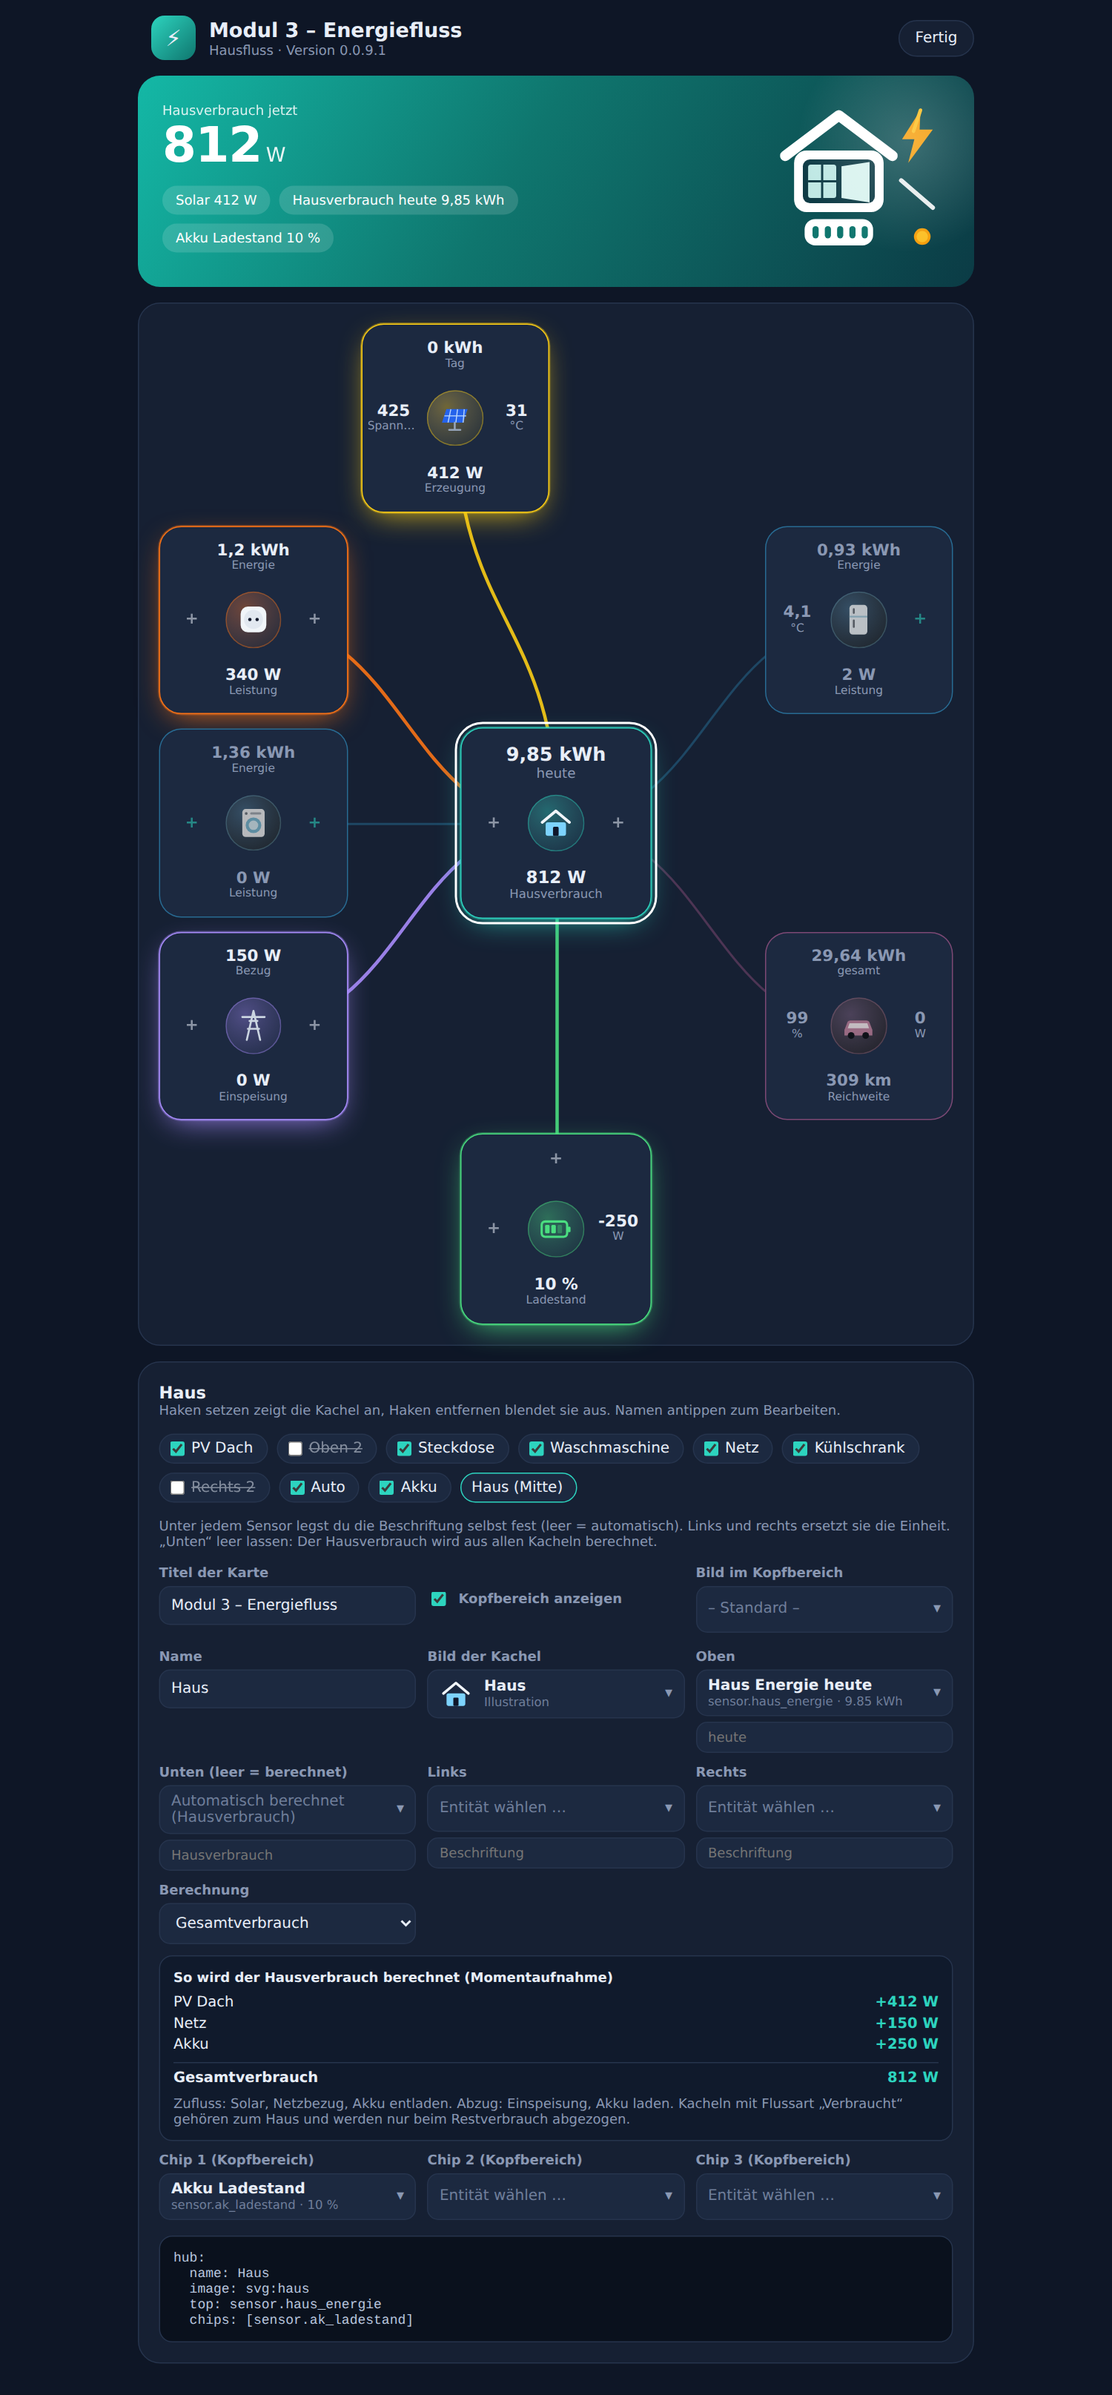
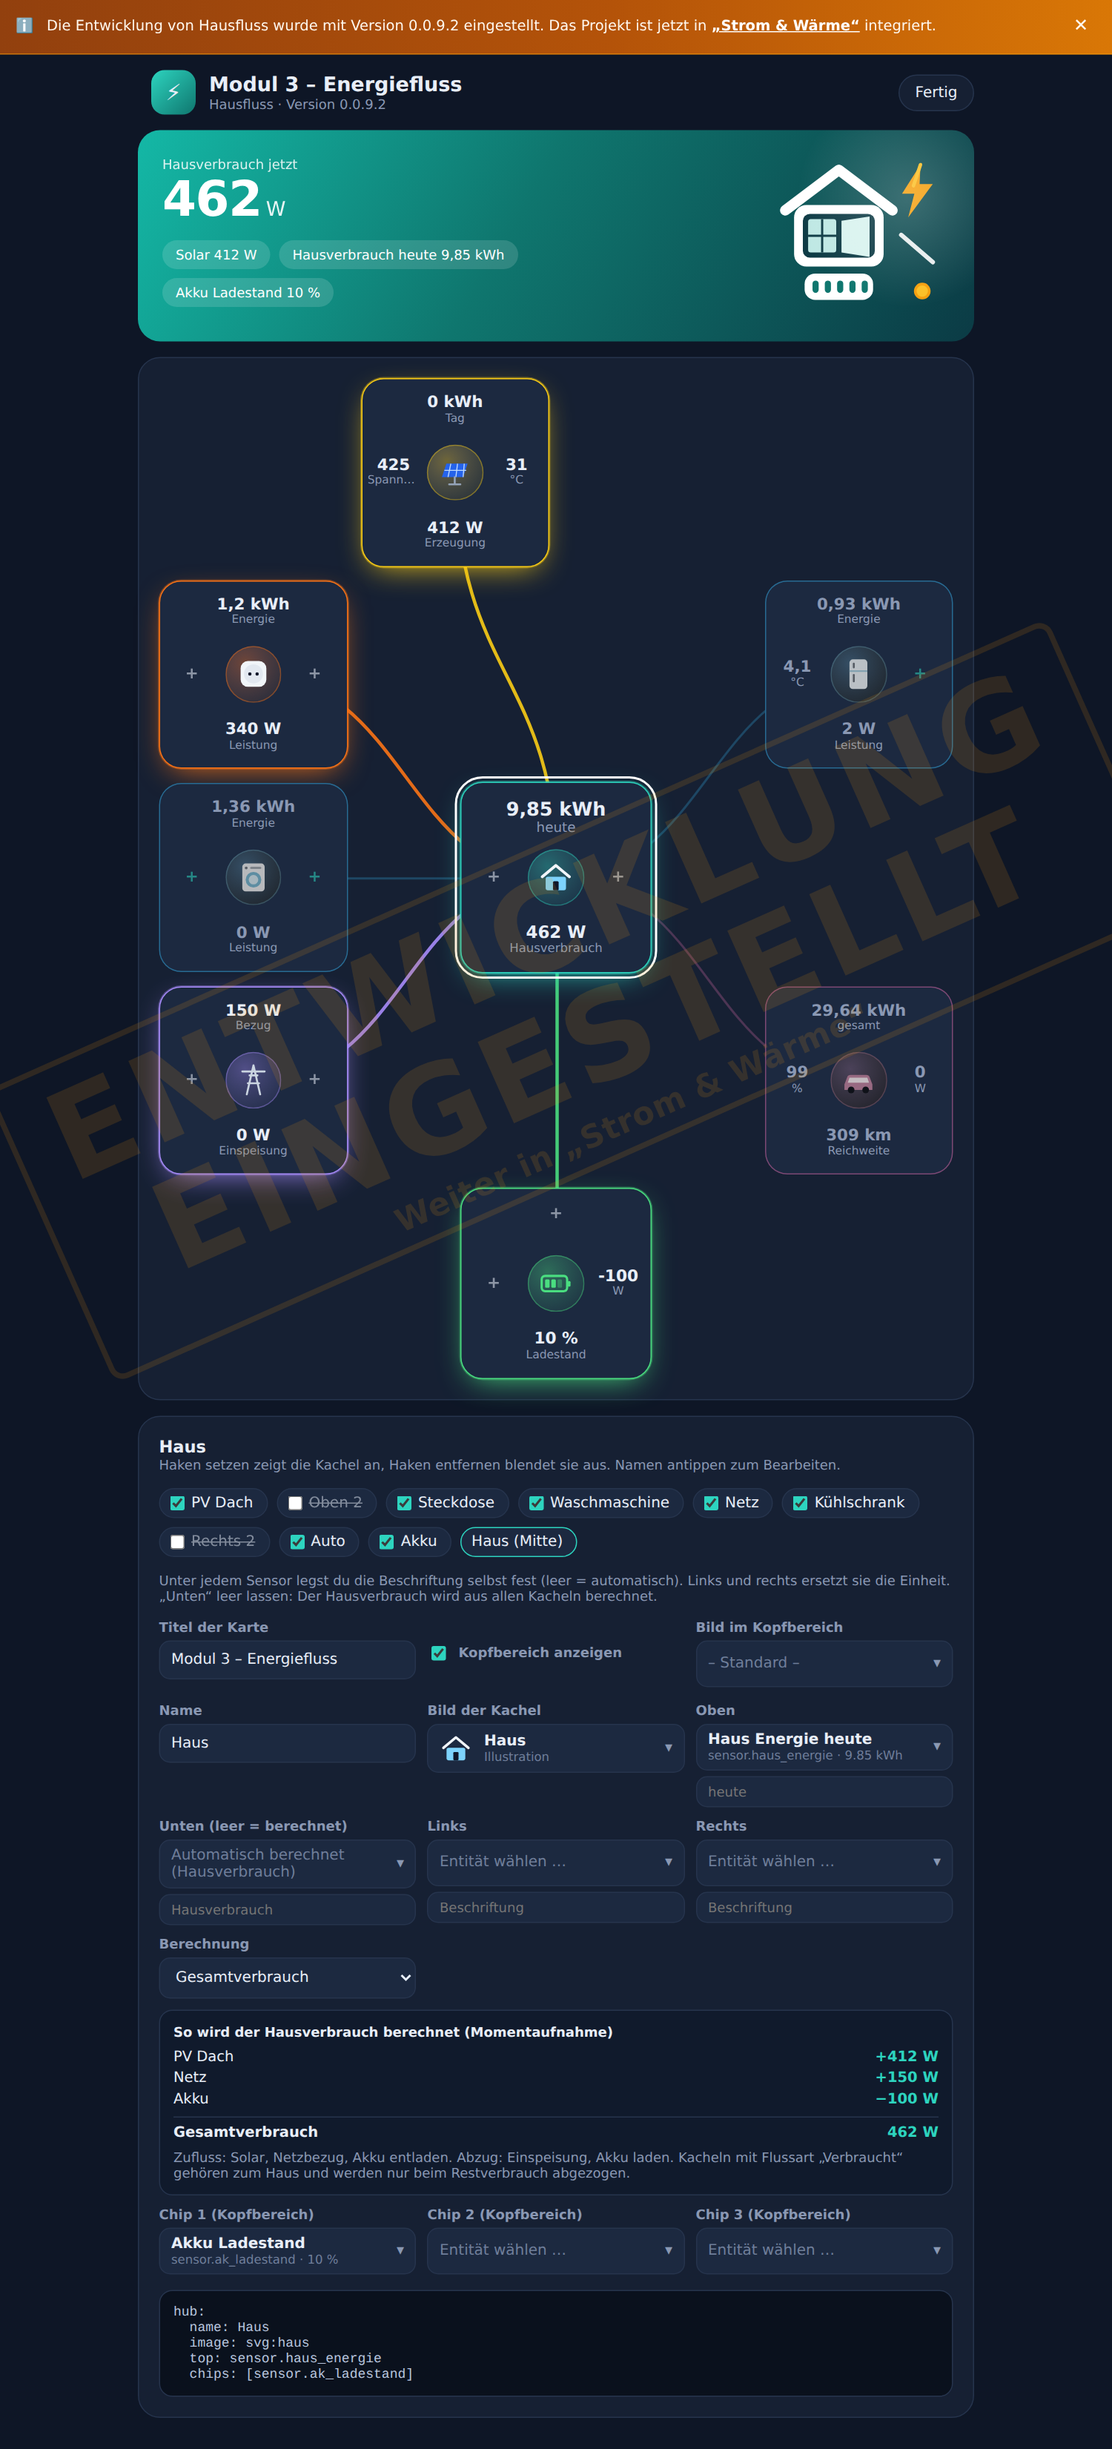
Add files via upload

diff --git a/custom_components/hausfluss/frontend/hausfluss-card.js b/custom_components/hausfluss/frontend/hausfluss-card.js
@@ -1,5 +1,5 @@
-/* Hausfluss – Modul 3 Energiefluss · Version 0.0.9.1 */
-const VERSION = '0.0.9.1';
+/* Hausfluss – Modul 3 Energiefluss · Version 0.0.9.2 */
+const VERSION = '0.0.9.2';
 const POS = {
   top_1: [2, 1, 'in', '#facc15'], top_2: [3, 1, 'in', '#fbbf24'],
   left_1: [1, 2, 'out', '#f97316'], left_2: [1, 3, 'out', '#38bdf8'], left_3: [1, 4, 'out', '#a78bfa'],
@@ -242,6 +242,7 @@ input:focus-visible,select:focus-visible,button:focus-visible{outline:2px solid 
 .calc{background:#101a2c;border:1px solid #26344d;border-radius:12px;padding:12px;display:grid;gap:8px}.calc b{font-size:12px}
 .calc ul{list-style:none;margin:0;padding:0;display:grid;gap:4px}.calc li,.calc .sum{display:flex;justify-content:space-between;gap:10px;font-size:13px}
 .calc em{font-style:normal;font-weight:600;color:#2dd4bf;white-space:nowrap}.calc .sum{border-top:1px solid #26344d;padding-top:6px;font-weight:700}.calc .warn{color:#f59e0b}
+.panel .live{color:#2dd4bf}
 .pkb{min-width:0;max-width:100%;overflow:hidden;box-sizing:border-box;display:flex;align-items:center;gap:10px;width:100%;min-height:42px;text-align:left;background:#1c2940;border:1px solid #26344d;color:#e8eef8;border-radius:10px;padding:6px 10px;font:500 13px inherit;font-family:inherit;cursor:pointer}
 .pkb::after{content:"▾";margin-left:auto;padding-left:6px;flex:none;color:#8a98b3}.pkb:hover{border-color:#2dd4bf}
 .ph{color:#6f7e9a}
@@ -282,6 +283,12 @@ class HausflussEditor extends HTMLElement {
   _picked(p) { this.dispatchEvent(new CustomEvent('hausfluss-selected', { detail: { position: p }, bubbles: true, composed: true })); }
   _closeAll() { this.shadowRoot.querySelectorAll('.pop').forEach((p) => (p.hidden = true)); }
 
+  _live(n) {
+    const h = this._h, id = h && pidOf(n, h);
+    if (!id || !h.states[id]) return '<p style="grid-column:1/-1">Wähle einen Sensor, dann siehst du hier, in welche Richtung die Energie gerade fließt.</p>';
+    const st = h.states[id], w = nodeW({ ...n, flow: 'both' }, h), a = Math.round(Math.abs(w)).toLocaleString('de') + ' W';
+    return `<p class="live" style="grid-column:1/-1">Sensor zeigt ${esc(st.state + ' ' + (st.attributes.unit_of_measurement || ''))} → ${Math.abs(w) < 1 ? 'kein Fluss' : w > 0 ? a + ' fließen zur Kachel (z. B. Akku lädt, Einspeisung)' : a + ' fließen ins Haus (z. B. Akku entlädt, Bezug)'}</p>`;
+  }
   _calcUi(n) {
     if (n.bottom || !this._h) return '';
     const nodes = (this._c.nodes || []).filter((x) => POS[x.position] && x.enabled !== false), c = calcHouse(nodes, this._h), rest = n.calc === 'rest';
@@ -289,7 +296,9 @@ class HausflussEditor extends HTMLElement {
     const rows = c.parts.map((x) => `<li><span>${nm(x.n)}</span><em>${x.v >= 0 ? '+' : '−'}${w(x.v)}</em></li>`).join('') || '<li><span>keine Quelle gefunden</span><em>–</em></li>';
     const cons = rest ? c.cons.map((x) => `<li><span>${nm(x.n)} (Verbraucher)</span><em>−${w(x.v)}</em></li>`).join('') : '';
     const warn = !c.parts.length ? 'Keine Quelle gefunden. Lege Kacheln für Solar, Netz und Akku an und wähle bei Netz und Akku die Flussart „Beides“.' : !c.bidir ? 'Keine Kachel mit Flussart „Beides“ (Netz, Akku) gefunden. Ohne Netzbezug, Einspeisung und Akku kann der Wert falsch sein.' : '';
-    return `<label>Berechnung<select data-calc><option value="total"${rest ? '' : ' selected'}>Gesamtverbrauch</option><option value="rest"${rest ? ' selected' : ''}>Restverbrauch (ohne Verbraucher-Kacheln)</option></select></label><div class="calc" style="grid-column:1/-1"><b>So wird der Hausverbrauch berechnet (Momentaufnahme)</b><ul>${rows}${cons}</ul><div class="sum"><span>${rest ? 'Restverbrauch' : 'Gesamtverbrauch'}</span><em>${w(rest ? c.rest : c.total)}</em></div>${warn ? `<p class="warn">${warn}</p>` : ''}<p>Zufluss: Solar, Netzbezug, Akku entladen. Abzug: Einspeisung, Akku laden. Kacheln mit Flussart „Verbraucht“ gehören zum Haus und werden nur beim Restverbrauch abgezogen.</p></div>`;
+    const sus = nodes.filter((x) => flowOf(x) === 'consume' && /akku|batter|speicher|netz|grid/i.test(x.name || '')).map((x) => `„${esc(x.name)}“`);
+    const susW = sus.length ? `${sus.join(', ')} hat die Flussart „Verbraucht“. Für Akku und Netz bitte „Beides“ wählen, sonst fehlt der Wert in der Berechnung.` : '';
+    return `<label>Berechnung<select data-calc><option value="total"${rest ? '' : ' selected'}>Gesamtverbrauch</option><option value="rest"${rest ? ' selected' : ''}>Restverbrauch (ohne Verbraucher-Kacheln)</option></select></label><div class="calc" style="grid-column:1/-1"><b>So wird der Hausverbrauch berechnet (Momentaufnahme)</b><ul>${rows}${cons}</ul><div class="sum"><span>${rest ? 'Restverbrauch' : 'Gesamtverbrauch'}</span><em>${w(rest ? c.rest : c.total)}</em></div>${[warn, susW].filter(Boolean).map((t) => `<p class="warn">${t}</p>`).join('')}<p>Zufluss: Solar, Netzbezug, Akku entladen. Abzug: Einspeisung, Akku laden. Kacheln mit Flussart „Verbraucht“ gehören zum Haus und werden nur beim Restverbrauch abgezogen.</p></div>`;
   }
   _auto(n, side, hub) {
     const id = n[side]; if (!id) return hub && side === 'bottom' ? (n.calc === 'rest' ? 'Restverbrauch' : 'Hausverbrauch') : '';
@@ -365,12 +374,12 @@ class HausflussEditor extends HTMLElement {
     const hints = {
       consume: 'Die Punkte laufen vom Haus zur Kachel, sobald der Sensor Leistung zeigt.',
       supply: 'Die Punkte laufen von der Kachel ins Haus, sobald der Sensor Leistung zeigt.',
-      both: 'Ein Sensor für beide Richtungen, z. B. Netz oder Akku: positiver Wert = zur Kachel, negativer Wert = ins Haus. Liefert dein Sensor es umgekehrt, setze „Vorzeichen umkehren“.',
+      both: 'Ein Sensor für beide Richtungen, z. B. Netz oder Akku. Wähle, was ein positiver Wert bedeutet. Beispiel Akku mit Minus = laden und Plus = entladen: „Plus = Lieferung / Entladen“.',
       split: 'Zwei Sensoren, z. B. Netz (Einspeisung / Bezug) oder Akku (Laden / Entladen). Der größere Wert bestimmt die Richtung.',
     };
     let f;
     if (fl === 'split') f = this._fld('entity', 'power_to_node', 'Sensor zur Kachel (z. B. Einspeisung, Laden)', n.power_to_node) + this._fld('entity', 'power_to_house', 'Sensor ins Haus (z. B. Bezug, Entladen)', n.power_to_house);
-    else if (fl === 'both') f = this._fld('entity', 'power', 'Sensor (positiv = zur Kachel)', n.power) + `<label class="row"><input type="checkbox" data-inv${n.invert ? ' checked' : ''}>Vorzeichen umkehren (positiv = ins Haus)</label>`;
+    else if (fl === 'both') f = this._fld('entity', 'power', 'Sensor', n.power) + `<label>Vorzeichen des Sensors<select data-sign><option value=""${n.invert ? '' : ' selected'}>Plus = Verbrauch / Laden (zur Kachel)</option><option value="1"${n.invert ? ' selected' : ''}>Plus = Lieferung / Entladen (ins Haus)</option></select></label>${this._live(n)}`;
     else f = this._fld('entity', 'power', 'Fluss-Leistung (optional, sonst „Unten“)', n.power);
     return `<label>Flussart<select data-fl>${o('consume', 'Verbraucht (Energie fließt zur Kachel)')}${o('supply', 'Liefert (Energie fließt ins Haus)')}${o('both', 'Beides – ein Sensor mit Vorzeichen')}${o('split', 'Beides – zwei Sensoren')}</select></label>${f}<p style="grid-column:1/-1">${hints[fl]}</p>`;
   }
@@ -410,15 +419,23 @@ ${hub ? this._calcUi(n) + [0, 1, 2].map((i) => this._fld('entity', 'chip' + i, '
     if (cs) cs.onchange = () => { this._set('hub', { calc: cs.value === 'rest' ? 'rest' : '' }); this._draw(); };
     const fs = r.querySelector('[data-fl]');
     if (fs) fs.onchange = () => { const v = fs.value; this._set(p, { flow: v, direction: '', ...(v !== 'split' ? { power_to_node: '', power_to_house: '' } : {}), ...(v !== 'both' ? { invert: '' } : {}) }); this._draw(); };
-    const iv = r.querySelector('[data-inv]');
-    if (iv) iv.onchange = () => { this._set(p, { invert: iv.checked ? true : '' }); this._yaml(); };
+    const sg = r.querySelector('[data-sign]');
+    if (sg) sg.onchange = () => { this._set(p, { invert: sg.value === '1' ? true : '' }); this._draw(); };
     r.querySelectorAll('[data-c]').forEach((b) => (b.onclick = () => { this._set(p, { color: b.dataset.c }); this._draw(); }));
   }
 }
 
+const NOTICE_URL = 'https://github.com/Maddog3010/ha-fenster-heizung', NOTICE_KEY = 'hausfluss_notice_strom_waerme';
 const DEFAULT_CFG = { title: 'Modul 3 – Energiefluss', hub: { name: 'Haus' }, nodes: [] };
 const PCSS = `
 :host{display:block;min-height:100%;background:#0e1626;color:#e8eef8;font-family:var(--paper-font-body1_-_font-family,system-ui,sans-serif)}
+.notice{display:flex;align-items:center;gap:12px;padding:10px 14px;background:linear-gradient(90deg,#92400e,#b45309 55%,#d97706);color:#fff7ed;font-size:13px;line-height:1.4;border-bottom:1px solid #f59e0b88;position:sticky;top:0;z-index:5}
+.notice[hidden]{display:none}.notice a{color:#fff;font-weight:700;text-decoration:underline}.nt{flex:1;min-width:0}
+.nx{background:none;border:0;color:inherit;font-size:16px;line-height:1;cursor:pointer;padding:6px 8px;border-radius:8px}.nx:hover{background:#ffffff22}
+.nx:focus-visible,.notice a:focus-visible{outline:2px solid #fff;outline-offset:2px}
+.wm{position:fixed;inset:0;display:grid;place-items:center;pointer-events:none;z-index:4;overflow:hidden;user-select:none}
+.wm span{transform:rotate(-24deg);text-align:center;font-weight:800;font-size:clamp(30px,min(11vw,11vh),110px);line-height:1.02;letter-spacing:.05em;color:rgba(245,158,11,.14);border:.05em solid rgba(245,158,11,.14);border-radius:.12em;padding:.08em .3em}
+.wm small{display:block;margin-top:.25em;font-size:.26em;letter-spacing:.02em;font-weight:700}
 .bar{display:flex;align-items:center;gap:12px;padding:14px;max-width:780px;margin:0 auto;box-sizing:border-box}
 ha-menu-button{color:#e8eef8}
 .logo{width:40px;height:40px;border-radius:12px;background:linear-gradient(135deg,#2dd4bf,#0f766e);display:grid;place-items:center;font-size:20px;flex:none}
@@ -449,7 +466,11 @@ class HausflussPanel extends HTMLElement {
 
   _draw() {
     const admin = !!this._h.user?.is_admin, r = this.shadowRoot;
-    r.innerHTML = `<style>${PCSS}</style><div class="bar"><ha-menu-button></ha-menu-button><div class="logo">⚡</div><div class="tt"><h1></h1><p>Hausfluss · Version ${VERSION}</p></div><span class="msg" id="m"></span>${admin ? '<button class="pill" id="b">Anpassen</button>' : ''}</div><div class="main"><div class="hint" id="hint" hidden>Noch keine Kachel angelegt. Tippe oben auf „Anpassen“, setze bei einer Kachel den Haken und wähle ihre Entitäten.</div><div id="cw"></div><div id="ed" hidden></div></div>`;
+    r.innerHTML = `<style>${PCSS}</style><div class="notice" id="nt" role="status"><span aria-hidden="true">ℹ</span><span class="nt">Die Entwicklung von Hausfluss wurde mit Version 0.0.9.2 eingestellt. Das Projekt ist jetzt in <a href="${NOTICE_URL}" target="_blank" rel="noopener noreferrer">„Strom &amp; Wärme“</a> integriert.</span><button class="nx" id="ntx" aria-label="Hinweis schließen">✕</button></div><div class="wm" aria-hidden="true"><span>ENTWICKLUNG<br>EINGESTELLT<small>Weiter in „Strom &amp; Wärme“</small></span></div><div class="bar"><ha-menu-button></ha-menu-button><div class="logo">⚡</div><div class="tt"><h1></h1><p>Hausfluss · Version ${VERSION}</p></div><span class="msg" id="m"></span>${admin ? '<button class="pill" id="b">Anpassen</button>' : ''}</div><div class="main"><div class="hint" id="hint" hidden>Noch keine Kachel angelegt. Tippe oben auf „Anpassen“, setze bei einer Kachel den Haken und wähle ihre Entitäten.</div><div id="cw"></div><div id="ed" hidden></div></div>`;
+    const nt = r.getElementById('nt'); let gone = false;
+    try { gone = localStorage.getItem(NOTICE_KEY) === '1'; } catch (e) { /* ohne Speicher: Hinweis bleibt sichtbar */ }
+    nt.hidden = gone;
+    r.getElementById('ntx').onclick = () => { nt.hidden = true; try { localStorage.setItem(NOTICE_KEY, '1'); } catch (e) { /* egal */ } };
     this._menu = r.querySelector('ha-menu-button'); this._menu.hass = this._h; this._menu.narrow = this._narrow;
     this._card = document.createElement('hausfluss-card'); r.getElementById('cw').appendChild(this._card);
     this._apply();

diff --git a/custom_components/hausfluss/const.py b/custom_components/hausfluss/const.py
@@ -1,6 +1,6 @@
 """Konstanten für Hausfluss."""
 DOMAIN = "hausfluss"
-VERSION = "0.0.9.1"
+VERSION = "0.0.9.2"
 URL_BASE = "/hausfluss_static"
 CARD_FILE = "hausfluss-card.js"
 JS_URL = f"{URL_BASE}/{CARD_FILE}?v={VERSION}"

diff --git a/README.md b/README.md
@@ -1,4 +1,6 @@
-# Energiefluss (v0.0.9.1)
+# Hausfluss – Modul 3 Energiefluss (v0.0.9.2)
+
+> **Entwicklung eingestellt.** Nachfolger: [Strom & Wärme](https://github.com/Maddog3010/ha-fenster-heizung). Details siehe unten.
 
 Lovelace-Karte für Home Assistant: ein Haus-Knoten in der Mitte, bis zu 9 Kacheln drumherum.
 Jede Kachel hat ein Bild in der Mitte und je eine Entität oben, unten, links und rechts.
@@ -24,7 +26,7 @@ Mit der Integration entsteht automatisch eine Seite **Energiefluss** links in de
 - **Flussart:** Pro Kachel legst du fest, wie Energie fließt. Danach zeigt der Editor genau die passenden Sensorfelder:
   - *Verbraucht*: Energie fließt vom Haus zur Kachel (ein Sensor, optional).
   - *Liefert*: Energie fließt von der Kachel ins Haus, z. B. Solar (ein Sensor, optional).
-  - *Beides – ein Sensor mit Vorzeichen*: für Netz oder Akku. Positiv heißt „zur Kachel“, negativ „ins Haus“. Liefert dein Sensor es umgekehrt, setzt du „Vorzeichen umkehren“.
+  - *Beides – ein Sensor mit Vorzeichen*: für Netz oder Akku. Unter „Vorzeichen des Sensors“ wählst du, was ein positiver Wert bedeutet. Beispiel Akku mit Minus = laden und Plus = entladen: „Plus = Lieferung / Entladen“. Eine Live-Anzeige zeigt sofort, in welche Richtung die Energie gerade fließt.
   - *Beides – zwei Sensoren*: z. B. Netzbezug und Einspeisung oder Laden und Entladen. Der größere Wert bestimmt die Richtung.
 - **Haus-Kachel:** Lässt du bei „Haus (Mitte)“ das Feld „Unten“ leer, wird der Hausverbrauch automatisch berechnet. Dafür braucht es keine zusätzlichen Entitäten bei der Haus-Kachel, die Werte kommen aus den anderen Kacheln:
   - **Zufluss:** Kacheln mit Flussart „Liefert“ (Solar) sowie Netzbezug und Akku entladen von Kacheln mit „Beides“.
@@ -43,6 +45,8 @@ Mit der Integration entsteht automatisch eine Seite **Energiefluss** links in de
 
 ![Flussart mit zwei Sensoren](images/flussart.png)
 
+![Akku-Sensor mit Vorzeichen (Minus = laden, Plus = entladen)](images/akku.png)
+
 ![Haus-Kachel mit berechnetem Hausverbrauch](images/haus.png)
 
 | Entität suchen | Bild suchen |
@@ -52,6 +56,9 @@ Mit der Integration entsteht automatisch eine Seite **Energiefluss** links in de
 ## Mobil
 Ist die Karte schmaler als 600 Pixel, wechselt sie automatisch in ein Handy-Layout: Das Haus steht oben, die Kacheln darunter in zwei Spalten, verbunden über eine Sammellinie. So bleiben alle Werte gut lesbar.
 
+## Entwicklung eingestellt
+Die Entwicklung von Hausfluss wurde mit Version 0.0.9.2 eingestellt. Das Projekt ist jetzt in [Strom & Wärme](https://github.com/Maddog3010/ha-fenster-heizung) integriert. Die Seite zeigt dazu oben einen Hinweis (mit ✕ schließbar) und ein Wasserzeichen „Entwicklung eingestellt“ quer über dem Bildschirm.
+
 ## Installation (HACS, Kategorie Integration)
 1. HACS → ⋮ → *Benutzerdefinierte Repositories* → Repository-URL `https://github.com/Maddog3010/hausfluss` eintragen, Kategorie **Integration**.
 2. „Hausfluss“ installieren und Home Assistant neu starten.
@@ -59,7 +66,7 @@ Ist die Karte schmaler als 600 Pixel, wechselt sie automatisch in ein Handy-Layo
 4. Seite öffnen → **Anpassen** → Kacheln und Entitäten wählen.
 
 Manuell: den Ordner `custom_components/hausfluss` nach `config/custom_components/` kopieren.
-Beim Veröffentlichen auf GitHub (`Maddog3010/hausfluss`) ein Release mit dem Tag `v0.0.9.1` anlegen.
+Beim Veröffentlichen auf GitHub (`Maddog3010/hausfluss`) ein Release mit dem Tag `v0.0.9.2` anlegen.
 
 ## YAML-Beispiel
 ```yaml
@@ -97,7 +104,7 @@ nodes:
     name: Akku
     flow: both             # ein Sensor mit Vorzeichen
     power: sensor.akku_leistung
-    invert: false          # true, wenn positiv = Entladen
+    invert: true           # true = Plus bedeutet Entladen (Minus = Laden)
 ```
 Tippen auf einen Wert öffnet den Verlauf der Entität.
 

diff --git a/CHANGELOG.md b/CHANGELOG.md
@@ -1,5 +1,11 @@
 # Änderungen
 
+## 0.0.9.2
+- **Akku-Sensor mit Vorzeichen:** Bei „Beides – ein Sensor mit Vorzeichen“ gibt es jetzt die Auswahl „Vorzeichen des Sensors“ (Plus = Verbrauch / Laden oder Plus = Lieferung / Entladen) statt des Kästchens „Vorzeichen umkehren“. Für Akkus mit Minus = laden und Plus = entladen: „Plus = Lieferung / Entladen“. Fluss-Animation und Hausverbrauch richten sich danach.
+- Eine Live-Anzeige im Editor zeigt, was der Sensor gerade meldet und in welche Richtung die Energie fließt.
+- Die Berechnung des Hausverbrauchs warnt, wenn eine Kachel „Akku“, „Batterie“, „Speicher“ oder „Netz“ heißt, aber die Flussart „Verbraucht“ hat.
+- **Entwicklung eingestellt:** Hinweis oben auf der Seite („Die Entwicklung von Hausfluss wurde mit Version 0.0.9.2 eingestellt. Das Projekt ist jetzt in „Strom & Wärme“ integriert.“, schließbar) und Wasserzeichen „Entwicklung eingestellt“ quer über dem Bildschirm. Das Wasserzeichen blockiert keine Bedienung.
+
 ## 0.0.9.1
 - **Korrigiert:** In 0.0.9 wurden bei der Berechnung auch die Verbraucher-Kacheln (Steckdose, Auto, …) abgezogen. Das war der Restverbrauch und nicht der Hausverbrauch. Jetzt ist der Standard der **Gesamtverbrauch** (Zufluss minus Einspeisung und Akku laden).
 - Neu: Auswahl „Berechnung“ bei der Haus-Kachel (`calc: total` oder `rest`). „Restverbrauch“ liefert den bisherigen Wert aus 0.0.9.
